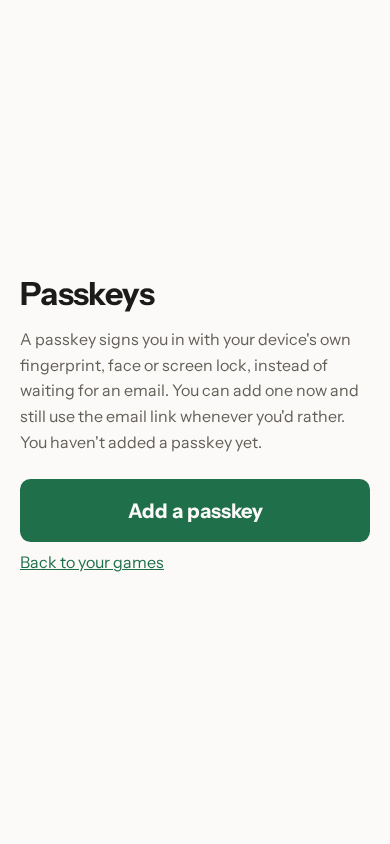
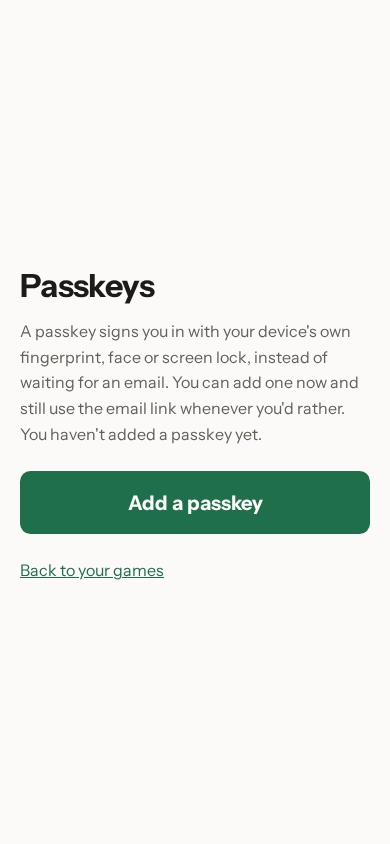
fix: a fixture list that was wearing the squad's clothes, and five back links
The rest of the M12 whole-branch review.

"Coming up" on a player's game page was still `<ul class="squad">` — spec
§4 P1's own example of the defect: it is a list of fixtures, not of
people, and sharing the class means the next rule written for a squad row
restyles it silently. Fixed on the sibling page in Task 4 and missed
here. It is `ul.fixtures` now, with the rules `INVITE_CSS` already
carries; that block brings nothing else to this page, whose other
selectors are the organiser's invite panel. `SQUAD_STYLES_CSS` moves
ahead of `FORM_CSS` there too — inert, since this page's squad is a
`div.squad` of chips and never a `ul.squad`, but pinned so the page is
not the one place the rule reads backwards.

§2.5's back link landed on three pages and not eight. All five missing
ones already had a closing link in the right place; what none of them had
was the class, so the 1.5rem that keeps the link off the block above it
never applied. `delete-account.ts` and `passkeys.ts` also had to be given
the block `.back-link` is declared in — a class with no rule behind it
fails silently, which is how this went unnoticed. No destination changed,
no second link was added, and the pages not behind a session were left
alone. Three `href` interpolations on those pages went through without
`escapeHtml`; the values are constants, but Constraint 6 says every one.

`docs/known-issues.md` attributed the capacity bar to a `renderCapacity`
that does not exist; it is `renderStatusLine`.
[…]

Changed region(s): [[0.0308, 0.3081, 0.9538, 0.7085]]

diff --git a/test/views/player-game.test.ts b/test/views/player-game.test.ts
@@ -2,6 +2,7 @@ import { describe, expect, it } from "vitest";
 import { LIFECYCLES, type Lifecycle } from "../../src/domain/lifecycle.js";
 import { fixtureStatusWords } from "../../src/views/fixture.js";
 import { renderPlayerGamePage, type PlayerGameParams } from "../../src/views/player-game.js";
+import { FIXTURE_STYLES_CSS, FORM_CSS, INVITE_CSS, SQUAD_STYLES_CSS } from "../../src/views/styles.js";
 
 const KICKOFF = new Date("2026-03-05T19:00:00Z");
 
@@ -21,7 +22,7 @@ function params(over: Partial<PlayerGameParams> = {}): PlayerGameParams {
 
 /** The one "Coming up" row a test seeded a single fixture into. */
 const comingUpRow = (html: string) =>
-  html.match(/<ul class="squad">(?:<li>([^<]*)<\/li>)?/)?.[1];
+  html.match(/<ul class="fixtures">(?:<li>([^<]*)<\/li>)?/)?.[1];
 
 describe("coming up", () => {
   /**
@@ -64,7 +65,7 @@ describe("coming up", () => {
 
   it("says so when there is nothing coming up", () => {
     expect(renderPlayerGamePage(params())).toContain(
-      '<ul class="squad"><li>No fixtures scheduled.</li></ul>',
+      '<ul class="fixtures"><li>No fixtures scheduled.</li></ul>',
     );
   });
 });
@@ -93,5 +94,61 @@ describe("a lifecycle this build does not know", () => {
     expect(row_).toBe("Thursday 5 March at 19:00 — Status unknown");
     expect(row_).not.toContain("undefined");
     expect(row_).not.toContain("abandoned");
+  });
+});
+
+/**
+ * Spec §4 P1: "Coming up" is a fixture list, not people. It wore
+ * `class="squad"` until now, which is how a rule written for a squad row —
+ * the organiser's person row, flex or grid depending on the cascade — came to
+ * lay out a player's list of dates. Fixed on the sibling page
+ * (`src/views/game-overview.ts`) and missed here.
+ */
+describe("the coming-up list is a list of fixtures, not of people", () => {
+  const row = { kicksOffAt: KICKOFF, lifecycle: "open" as Lifecycle };
+
+  it("wears the fixtures class, never the squad class", () => {
+    const html = renderPlayerGamePage(params({ upcoming: [row] }));
+    expect(html).toContain(`<ul class="fixtures">`);
+    expect(html).not.toContain(`<ul class="squad">`);
+  });
+
+  it("ships the block ul.fixtures is declared in", () => {
+    // Without it the list is an unstyled `ul` with no top border, no row
+    // separators and no 44px rows — markup with nothing behind it, which no
+    // string assertion about the class alone would notice.
+    const html = renderPlayerGamePage(params({ upcoming: [row] }));
+    expect(html).toContain(INVITE_CSS);
+    expect(INVITE_CSS).toContain("ul.fixtures > li {");
+  });
+
+  it("keeps the two blocks that fight over ul.squad in the app's order", () => {
+    // Inert on this page — the squad here is a `div.squad` of chips, never a
+    // `ul.squad` — but pinned so this page is not the one place the rule is
+    // written backwards. The presence assertions are what stop the order
+    // comparison passing vacuously: `indexOf` returns -1 when a block is
+    // absent, and -1 is less than everything.
+    const html = renderPlayerGamePage(params({ upcoming: [row] }));
+    const squadAt = html.indexOf(SQUAD_STYLES_CSS);
+    const formAt = html.indexOf(FORM_CSS);
+    expect(squadAt).toBeGreaterThan(-1);
+    expect(formAt).toBeGreaterThan(-1);
+    expect(squadAt).toBeLessThan(formAt);
+  });
+});
+
+describe("the back link", () => {
+  it("carries the class §2.5 names, and the block that declares it", () => {
+    // The class alone is inert: `.back-link { margin-top: 1.5rem }` lives in
+    // FIXTURE_STYLES_CSS, and without it the link butts against the list above.
+    const html = renderPlayerGamePage(params());
+    expect(html).toContain(`<p class="back-link">`);
+    expect(html).toContain(FIXTURE_STYLES_CSS);
+    expect(FIXTURE_STYLES_CSS).toContain(".back-link {");
+  });
+
+  it("offers exactly one way back up, at the end of the body", () => {
+    const html = renderPlayerGamePage(params());
+    expect(html.match(/class="back-link"/g)).toHaveLength(1);
   });
 });

diff --git a/src/views/player-game.ts b/src/views/player-game.ts
@@ -6,7 +6,7 @@ import type { Lifecycle } from "../domain/lifecycle.js";
 import type { PublishedTeams } from "../domain/teams.js";
 import { fixtureStatusWords, renderPublishedTeamsSection, renderSquadSection, renderStatusLine } from "./fixture.js";
 import { escapeHtml, layout } from "./layout.js";
-import { FIXTURE_STYLES_CSS, FORM_CSS, SQUAD_STYLES_CSS, TEAM_PICKER_CSS } from "./styles.js";
+import { FIXTURE_STYLES_CSS, FORM_CSS, INVITE_CSS, SQUAD_STYLES_CSS, TEAM_PICKER_CSS } from "./styles.js";
 
 export interface PlayerGameParams {
   gameName: string;
@@ -80,6 +80,13 @@ export function renderPlayerGamePage(params: PlayerGameParams): string {
         ${renderSquadSection(openFixture.squad, openFixture.inCount, viewerPlayerId)}
       `;
 
+  // `ul.fixtures`, never `ul.squad` (spec §4 P1), matching the sibling page
+  // `src/views/game-overview.ts`. This is a list of fixtures, not of people:
+  // sharing the squad class means the next rule written for a squad row
+  // silently restyles the fixture list too, which is exactly what had
+  // happened — these rows were wearing the organiser's person-row layout.
+  // The rules are already in `INVITE_CSS`, added to `pageStyles` below.
+  //
   // The state in words, never the stored lifecycle: this row used to print
   // "open" or "scheduled" — a database value — at a player, which is the same
   // defect the organiser's page had. `fixtureStatusWords` rather than a second
@@ -99,9 +106,9 @@ export function renderPlayerGamePage(params: PlayerGameParams): string {
     ${fixtureSection}
 
     <h2>Coming up</h2>
-    <ul class="squad">${upcomingItems || "<li>No fixtures scheduled.</li>"}</ul>
+    <ul class="fixtures">${upcomingItems || "<li>No fixtures scheduled.</li>"}</ul>
 
-    <p><a href="${DASHBOARD_PATH}">Back to your games</a></p>
+    <p class="back-link"><a href="${escapeHtml(DASHBOARD_PATH)}">Back to your games</a></p>
   `;
 
   return layout({
@@ -115,6 +122,17 @@ export function renderPlayerGamePage(params: PlayerGameParams): string {
     // `TEAM_PICKER_CSS` for the published line-ups — see the same import on
     // the `/r/:token` page for why the owner's block is the right one to
     // reuse rather than a second block styling identical markup.
-    pageStyles: [FIXTURE_STYLES_CSS, FORM_CSS, SQUAD_STYLES_CSS, TEAM_PICKER_CSS],
+    //
+    // `INVITE_CSS` for `ul.fixtures` and nothing else: its other selectors
+    // (`.card`, `.qr-toggle`) are the organiser's invite panel, which this
+    // page never renders, so adding it changes nothing already on the page.
+    //
+    // `SQUAD_STYLES_CSS` before `FORM_CSS`, the order every other page in the
+    // app now uses. It is inert here — this page's squad is a `div.squad` of
+    // chips, never a `ul.squad`, so the row rule the two blocks fight over
+    // matches nothing, and the `.squad` container properties they share carry
+    // identical values. Pinned so the page is not the one place a reader
+    // finds the rule written backwards.
+    pageStyles: [SQUAD_STYLES_CSS, FORM_CSS, INVITE_CSS, FIXTURE_STYLES_CSS, TEAM_PICKER_CSS],
   });
 }

diff --git a/src/views/passkeys.ts b/src/views/passkeys.ts
@@ -1,7 +1,7 @@
 import { DASHBOARD_PATH } from "../auth/paths.js";
 import { escapeHtml, layout } from "./layout.js";
 import { PASSKEY_REGISTER_JS } from "./scripts.js";
-import { PASSKEY_STYLES_CSS } from "./styles.js";
+import { FIXTURE_STYLES_CSS, PASSKEY_STYLES_CSS } from "./styles.js";
 
 export interface PasskeysPageOptions {
   /**
@@ -41,7 +41,12 @@ export function renderPasskeysPage({ labels }: PasskeysPageOptions): string {
 
   return layout({
     title: "Passkeys — Make The Team",
-    pageStyles: [PASSKEY_STYLES_CSS],
+    // `FIXTURE_STYLES_CSS` is here for `.back-link` alone (§2.5), the same way
+    // `src/views/game-overview.ts` and `src/views/leave.ts` carry it: without
+    // the block the class is inert and the link butts against the block above
+    // it. Every other selector in that block is a class this page never
+    // renders, so nothing already here changes appearance.
+    pageStyles: [PASSKEY_STYLES_CSS, FIXTURE_STYLES_CSS],
     pageScripts: [PASSKEY_REGISTER_JS],
     body: `
       <h1>Passkeys</h1>
@@ -51,7 +56,7 @@ export function renderPasskeysPage({ labels }: PasskeysPageOptions): string {
         <button class="button primary" type="button" id="passkey-add-button">Add a passkey</button>
         <p class="nudge" id="passkey-problem" hidden></p>
       </div>
-      <p><a href="${DASHBOARD_PATH}">Back to your games</a></p>
+      <p class="back-link"><a href="${escapeHtml(DASHBOARD_PATH)}">Back to your games</a></p>
     `,
   });
 }

diff --git a/test/routes/passkeys.test.ts b/test/routes/passkeys.test.ts
@@ -5,6 +5,7 @@ import { PASSKEYS_PATH, SIGN_IN_PATH } from "../../src/auth/session.js";
 import { getDb } from "../../src/db/client.js";
 import { passkey, players, user as userTable } from "../../src/db/schema.js";
 import { PASSKEY_REGISTER_JS } from "../../src/views/scripts.js";
+import { FIXTURE_STYLES_CSS } from "../../src/views/styles.js";
 import { resetDatabase } from "../support/factories.js";
 import { ORIGIN, bindings, signIn } from "../support/sign-in.js";
 
@@ -80,6 +81,19 @@ describe("GET /app/passkeys", () => {
     expect(body).toContain(`<script>${PASSKEY_REGISTER_JS}</script>`);
     // Signed-in data: never cached anywhere but this browser.
     expect(response.headers.get("cache-control")).toBe("private, no-store");
+  });
+
+  it("ends in one back link, wearing the class §2.5 names", async () => {
+    // The link was already here; the class was not, so the 1.5rem that keeps
+    // it off the block above it never applied. `.back-link` is declared in
+    // FIXTURE_STYLES_CSS, so the page has to carry that block for the class
+    // to mean anything — a class with no rule behind it fails silently.
+    const { cookie } = await signIn();
+    const body = await (await get(cookie)).text();
+
+    expect(body).toContain(`<p class="back-link">`);
+    expect(body.match(/class="back-link"/g)).toHaveLength(1);
+    expect(body).toContain(FIXTURE_STYLES_CSS);
   });
 
   it("lists this identity's passkeys and nobody else's (TR-18)", async () => {

diff --git a/test/views/delete-account.test.ts b/test/views/delete-account.test.ts
@@ -1,5 +1,6 @@
 import { describe, expect, it } from "vitest";
 import { renderDeleteAccountPage, type DeleteAccountPageParams } from "../../src/views/delete-account.js";
+import { FIXTURE_STYLES_CSS } from "../../src/views/styles.js";
 
 const BASE: DeleteAccountPageParams = {
   playerName: "Ada Okafor",
@@ -85,6 +86,27 @@ describe("one filled button per screen", () => {
             },
       );
       expect(html, `${state} must render no button`).not.toContain("<button");
+    }
+  });
+});
+
+/**
+ * §2.5: every page behind a session ends in one back link wearing the
+ * existing `.back-link` class. This page had the link and not the class, so
+ * the 1.5rem that separates it from the block above it was never applied.
+ */
+describe("the back link", () => {
+  it("carries the class, and the block that declares it", () => {
+    const html = renderDeleteAccountPage(BASE);
+    expect(html).toContain(`<p class="back-link">`);
+    expect(html).toContain(FIXTURE_STYLES_CSS);
+    expect(FIXTURE_STYLES_CSS).toContain(".back-link {");
+  });
+
+  it("offers exactly one way back up, in every state this page has", () => {
+    for (const state of STATES) {
+      const html = renderDeleteAccountPage(state.params);
+      expect(html.match(/class="back-link"/g), state.name).toHaveLength(1);
     }
   });
 });

diff --git a/src/views/delete-account.ts b/src/views/delete-account.ts
@@ -5,7 +5,7 @@ import {
   gamePath,
 } from "../auth/paths.js";
 import { escapeHtml, layout } from "./layout.js";
-import { FORM_CSS } from "./styles.js";
+import { FIXTURE_STYLES_CSS, FORM_CSS } from "./styles.js";
 
 /**
  * The page behind `/app/delete` (BR-34, M7b).
@@ -230,12 +230,17 @@ export function renderDeleteAccountPage(params: DeleteAccountPageParams): string
             : pendingBody(params.erasesAtLocal ?? "")
     }
     ${ON_NOBODY_ELSE_S_BEHALF}
-    <p><a href="${escapeHtml(DASHBOARD_PATH)}">Back to your games</a></p>
+    <p class="back-link"><a href="${escapeHtml(DASHBOARD_PATH)}">Back to your games</a></p>
   `;
 
   return layout({
     title: `Delete my data — Make The Team`,
     body,
-    pageStyles: [FORM_CSS],
+    // `FIXTURE_STYLES_CSS` is here for `.back-link` alone (§2.5), the same way
+    // `src/views/game-overview.ts` and `src/views/leave.ts` carry it: without
+    // the block the class is inert and the link butts against the paragraph
+    // above it. Every other selector in that block is a class this page never
+    // renders, so nothing already here changes appearance.
+    pageStyles: [FORM_CSS, FIXTURE_STYLES_CSS],
   });
 }

diff --git a/test/routes/account.test.ts b/test/routes/account.test.ts
@@ -12,6 +12,7 @@ import {
   insertResponse,
   resetDatabase,
 } from "../support/factories.js";
+import { FIXTURE_STYLES_CSS } from "../../src/views/styles.js";
 import { ALLOWED, ORIGIN, signIn } from "../support/sign-in.js";
 
 const db = getDb(env.DB);
@@ -278,6 +279,18 @@ describe("GET /app/account", () => {
     expect(row).toContain("Status unknown");
     expect(row).not.toContain("abandoned");
     expect(row).not.toContain("undefined");
+  });
+
+  it("ends in one back link, wearing the class §2.5 names", async () => {
+    // The link was already here; the class was not, so the 1.5rem that keeps
+    // it off the block above it never applied. This page already carries
+    // FIXTURE_STYLES_CSS, where `.back-link` is declared.
+    const { cookie } = await signIn();
+    const body = await (await get(cookie)).text();
+
+    expect(body).toContain(`<p class="back-link">`);
+    expect(body.match(/class="back-link"/g)).toHaveLength(1);
+    expect(body).toContain(FIXTURE_STYLES_CSS);
   });
 
   it("shows the pending-erasure banner and its link when one is due", async () => {

diff --git a/test/views/game-overview.test.ts b/test/views/game-overview.test.ts
@@ -321,6 +321,15 @@ describe("the squad list is styled too", () => {
     // Ordering is invisible to every other assertion in this file — this is
     // the only thing standing between that bug and a silent return.
     const html = render({ squad: [{ playerId: "p-sam", name: "Sam Okafor", role: "player", isGuest: false }] });
-    expect(html.indexOf(SQUAD_STYLES_CSS)).toBeLessThan(html.indexOf(FORM_CSS));
+    const squadAt = html.indexOf(SQUAD_STYLES_CSS);
+    const formAt = html.indexOf(FORM_CSS);
+    // Both presence assertions are load-bearing, and they belong in this test
+    // rather than only in the neighbouring one: `indexOf` returns -1 for an
+    // absent block, and -1 is less than everything, so the order comparison
+    // passes vacuously on a page that ships neither. `test/views/leave.test.ts`
+    // and `test/views/remove-member.test.ts` pair them the same way.
+    expect(squadAt).toBeGreaterThan(-1);
+    expect(formAt).toBeGreaterThan(-1);
+    expect(squadAt).toBeLessThan(formAt);
   });
 });

diff --git a/test/views/owner-fixture.test.ts b/test/views/owner-fixture.test.ts
@@ -105,3 +105,21 @@ describe("the squad row's layout", () => {
     expect(html).toContain(`<div class="capacity">`);
   });
 });
+
+describe("the back link", () => {
+  it("carries the class §2.5 names, and the block that declares it", () => {
+    // The class alone is inert: `.back-link { margin-top: 1.5rem }` lives in
+    // FIXTURE_STYLES_CSS, and without it the link butts against the block
+    // above it.
+    const html = renderOwnerFixturePage(params());
+    expect(html).toContain(`<p class="back-link">`);
+    expect(html).toContain(`href="/g/g-1"`);
+    expect(html).toContain(FIXTURE_STYLES_CSS);
+    expect(FIXTURE_STYLES_CSS).toContain(".back-link {");
+  });
+
+  it("offers exactly one way back up, at the end of the body", () => {
+    const html = renderOwnerFixturePage(params());
+    expect(html.match(/class="back-link"/g)).toHaveLength(1);
+  });
+});

diff --git a/src/views/account.ts b/src/views/account.ts
@@ -141,8 +141,8 @@ export function renderAccountPage({
         : `<ul class="fixture-list">${fixtures.map(renderFixture).join("")}</ul>`
     }
 
-    <p><a href="${DELETE_ACCOUNT_PATH}">Delete my account and data</a> · <a href="${PRIVACY_PATH}">Privacy</a></p>
-    <p><a href="${DASHBOARD_PATH}">Back to your games</a></p>
+    <p><a href="${escapeHtml(DELETE_ACCOUNT_PATH)}">Delete my account and data</a> · <a href="${escapeHtml(PRIVACY_PATH)}">Privacy</a></p>
+    <p class="back-link"><a href="${escapeHtml(DASHBOARD_PATH)}">Back to your games</a></p>
     ${signOutForm("Sign out")}
   `;
 

diff --git a/src/views/owner-fixture.ts b/src/views/owner-fixture.ts
@@ -276,7 +276,7 @@ export function renderOwnerFixturePage(params: OwnerFixtureParams): string {
 
     ${renderGuestForm(gameId, fixtureId, params)}
 
-    <p><a href="${escapeHtml(gamePath(gameId))}">Back to the game</a></p>
+    <p class="back-link"><a href="${escapeHtml(gamePath(gameId))}">Back to the game</a></p>
   `;
 
   return layout({

diff --git a/docs/known-issues.md b/docs/known-issues.md
@@ -94,7 +94,7 @@ broken, and if the answer is "exactly like this", add the assertion that would d
 | `nodejs_compat` is enabled in `wrangler.jsonc` with no Node builtin used in `src/`. | Harmless, and likely needed by later milestones. |
 | `test/index.test.ts` asserts the schema-derived fixture count in two places, so changing the materialisation horizon needs edits across four test files. | A shared expected-count constant in `test/support/` would localise it. |
 | ~~A `withdrawn` player presenting a still-valid response token could flip back to `in`: the Durable Object's lookup of the player's existing response row does not exclude `withdrawn`.~~ | **Closed by J6b's whole-branch review fix wave, 14 August 2026.** `setResponse`'s existing-row lookup now skips a `withdrawn` row (`src/capacity/fixture-capacity.ts`), so a removed player is answered with `not-eligible` — which is exactly what that reason means — and their row stays `withdrawn`. Both doors are shut by the one change: the old response link still sitting in the removed player's inbox, and J6b's new owner-override route, neither of which checks membership itself. Pinned by "a withdrawn player" in `test/capacity/set-response.test.ts` and "an override for a removed player" in `test/routes/owner-fixture.test.ts`. The note's second ask — a promotion pass for BR-3 — was already met by `withdrawMember`, which frees the slot and promotes in its own batch rather than inheriting `setResponse`'s. **The history below is kept because the defect was live in production from 13 August, when J6a's removal began writing `withdrawn`, until this fix.** _Original note:_ No longer unreachable — found while writing J6b's guide chapter, not fixed here (see this file's own rule about not smuggling code changes into a docs task). J6a shipped BR-3: `removeMember` → `withdrawMember` (`src/capacity/fixture-capacity.ts`) now writes `status: "withdrawn"` on every open fixture a removed player held a slot on. `setResponse`'s existing-row lookup (`src/capacity/fixture-capacity.ts:85`, `const existing = all.find((r) => r.playerId === input.playerId)`) still matches that row regardless of status, and `POST /r/:token` (`src/routes/respond.ts`) calls `setResponse` directly with no squad-membership check of its own — `not-eligible` only fires when *no* row exists at all. So a player removed after their reminder was sent, but before their response token expires, can still tap **I'm in** on the email they already have and be recorded `in` again, on a fixture the owner believed they were taken off. This is exactly the gap the original note named; what changed is that the code path making it real now exists. Still needs: exclude `withdrawn` from the existing-row lookup, and (per the original note) a promotion pass of its own, since BR-3 writes `withdrawn` outside `setResponse` and does not inherit BR-7's. |
-| A waitlisted viewer on a fixture with an odd `max_players` can see a full capacity bar — "11 of 11 in · 2 waiting" — alongside "The squad has an odd number of players in — one more would even it up" simultaneously. **Wording corrected 17 August 2026 (M12 Task 11); the defect itself is unchanged and still open.** The symptom used to be written in terms of "0 spots left", which M12 §3.1 replaced with the bar (`renderCapacity`, `src/views/fixture.ts`); that string is now absent from `src/` entirely, so the old sentence named something the app cannot emit and would read to anybody grepping for it as though the issue had gone. It has not: `renderNudge` still fires on the `uneven` flag alone, with no reference to whether the fixture is full. | Same root cause as the odd-`max_players` item above (Part 3, open item 6). |
+| A waitlisted viewer on a fixture with an odd `max_players` can see a full capacity bar — "11 of 11 in · 2 waiting" — alongside "The squad has an odd number of players in — one more would even it up" simultaneously. **Wording corrected 17 August 2026 (M12 Task 11); the defect itself is unchanged and still open.** The symptom used to be written in terms of "0 spots left", which M12 §3.1 replaced with the bar (`renderStatusLine`, `src/views/fixture.ts`); that string is now absent from `src/` entirely, so the old sentence named something the app cannot emit and would read to anybody grepping for it as though the issue had gone. It has not: `renderNudge` still fires on the `uneven` flag alone, with no reference to whether the fixture is full. | Same root cause as the odd-`max_players` item above (Part 3, open item 6). |
 | The organiser's fixture page can render two filled `.button.primary` at once — `renderConfirm`'s "Add them anyway" (`src/views/owner-fixture.ts:169`) and the team picker's "Publish teams" — against M12 §2.2, "one primary action per screen". | **Left deliberately, 17 August 2026, author's call.** The two gates are independent with no mutual exclusion: `renderConfirm` fires on `params.confirm !== undefined`; `renderPublish` on `takingChanges(view)` **and** (`published`, or `needsAnotherLook`, or any member already has a team). Both hit when an organiser over-fills a fixture that is still taking changes and already has a started pick. **Both buttons are `--accent`; neither is `--danger`**, so §0.8's colour-safety rule — the one that keeps a deuteranope from having to read the label instead of the colour — is not implicated. This is hierarchy only, the milder of the two failures. M12 improved the state from three fills to two by demoting "Save teams". It went no further because the properly correct answer is conditional — Publish demotes *while* a confirm is pending — which is behaviour rather than presentation, and so barred by that milestone's own constraint against feature changes; while demoting "Add them anyway" instead would make the question the screen is actively asking quieter than a background action. Needs a product decision, not a CSS class. |
 | `src/routes/respond.ts` re-derives "not eligible" / "not open" from lifecycle and squad membership independently of the Durable Object's own rejection reason. The two agree today, but nothing pins them together. | No observed drift; would benefit from a shared invariant or a mapping test if the two ever diverge. |
 | `notification_log.dedupe_key` builders have no structural defence against a colon-containing or empty id. | Unreachable — every id in the system is `crypto.randomUUID()`. |
